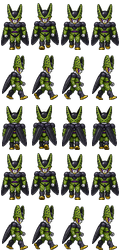
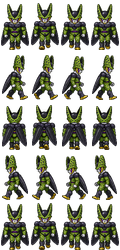
Boss facing fix, cleaner bind labels, universal phases, quieter aura, form defense
1. Sprite facing: generator now emits a proper 4-direction layout (down/right/
   up/left) with the left row mirrored from the right, so bosses that read a
   dedicated left row no longer face the wrong way / only turn one direction.
   All boss sheets regenerated.
2. Unlock dialogues use a clean ASCII key label (e.g. "Shift+R") instead of the
   raw KeybindList text that rendered as glyphs; the first form unlock now also
   lists the dash, guard/parry and charge binds.
3. Every non-guardian boss now runs at least one phase, so it hits a "stops
   holding back" surge near death; Dragon Ball guardians stay phase-less.
4. Aura hum volume config (default 0.5) applied to the loop cue.
5. Forms now grant passive damage reduction - a fraction of their attack bonus
   (default half), amplified by mastery, with diminishing returns and a cap.

All added options exposed in GMCM.

Changed region(s): [[0.0, 0.616, 1.0, 1.0]]

diff --git a/ModEntry.cs b/ModEntry.cs
@@ -175,6 +175,9 @@ namespace SaiyanTransformations
             gmcm.AddBoolOption(m, () => this.Config.ParryReflect, v => this.Config.ParryReflect = v, () => "Parry deflects ki blasts");
 
             gmcm.AddSectionTitle(m, () => "Mastery & passives");
+            gmcm.AddBoolOption(m, () => this.Config.EnableFormDefense, v => this.Config.EnableFormDefense = v, () => "Forms reduce incoming damage");
+            gmcm.AddNumberOption(m, () => this.Config.FormDefenseFraction, v => this.Config.FormDefenseFraction = v, () => "Defense = this x attack bonus", null, 0f, 1f, 0.05f);
+            gmcm.AddNumberOption(m, () => this.Config.FormDefenseMaxReduction, v => this.Config.FormDefenseMaxReduction = v, () => "Max form damage reduction", null, 0f, 0.95f, 0.05f);
             gmcm.AddBoolOption(m, () => this.Config.EnableMasteryBonuses, v => this.Config.EnableMasteryBonuses = v, () => "Mastery carries over to all forms");
             gmcm.AddNumberOption(m, () => this.Config.MasteryAttackBonusPerForm, v => this.Config.MasteryAttackBonusPerForm = v, () => "Attack bonus per mastered form", null, 0f, 0.5f, 0.05f);
             gmcm.AddNumberOption(m, () => this.Config.MasteryDefenseBonusPerForm, v => this.Config.MasteryDefenseBonusPerForm = v, () => "Defense bonus per mastered form", null, 0, 20, 1);
@@ -211,6 +214,7 @@ namespace SaiyanTransformations
             gmcm.AddBoolOption(m, () => this.Config.ShowKiBar, v => this.Config.ShowKiBar = v, () => "Show ki bar");
             gmcm.AddBoolOption(m, () => this.Config.ShowPowerLevel, v => this.Config.ShowPowerLevel = v, () => "Show power level");
             gmcm.AddBoolOption(m, () => this.Config.ScreenFlash, v => this.Config.ScreenFlash = v, () => "Screen flash");
+            gmcm.AddNumberOption(m, () => this.Config.AuraLoopVolume, v => this.Config.AuraLoopVolume = v, () => "Aura hum volume", null, 0f, 1f, 0.05f);
         }
 
         /// <summary>Apply a one-click difficulty preset by overwriting the boss scaling dials.
@@ -376,7 +380,14 @@ namespace SaiyanTransformations
         {
             ModEntry.StopLoop(ref this.auraCue);
             if (this.Config.AuraLoopSound)
+            {
                 this.auraCue = this.PlayLoop("aura_loop");
+                if (this.auraCue != null)
+                {
+                    try { this.auraCue.Volume = MathHelper.Clamp(this.Config.AuraLoopVolume, 0f, 1f); }
+                    catch (Exception) { }
+                }
+            }
         }
 
         /// <summary>A fully mastered form runs "calm" — no visible aura, no electric
@@ -550,6 +561,45 @@ namespace SaiyanTransformations
         internal string TechniqueName(string techniqueId)
         {
             return this.Techniques.NameOf(techniqueId);
+        }
+
+        /// <summary>A short, plain-text label for a keybind, e.g. "Shift+R", safe to drop into
+        /// a dialogue box. The raw KeybindList text did not render cleanly (it showed as
+        /// stray glyphs), so this builds a clean ASCII label from the first bound combo.</summary>
+        internal string KeyLabel(KeybindList keys)
+        {
+            if (keys != null)
+            {
+                foreach (Keybind kb in keys.Keybinds)
+                {
+                    if (!kb.IsBound)
+                        continue;
+                    var sb = new System.Text.StringBuilder();
+                    foreach (SButton b in kb.Buttons)
+                    {
+                        if (sb.Length > 0)
+                            sb.Append('+');
+                        sb.Append(ShortButton(b));
+                    }
+                    if (sb.Length > 0)
+                        return sb.ToString();
+                }
+            }
+            return "(unbound)";
+        }
+
+        private static string ShortButton(SButton b)
+        {
+            switch (b)
+            {
+                case SButton.LeftShift:
+                case SButton.RightShift: return "Shift";
+                case SButton.LeftControl:
+                case SButton.RightControl: return "Ctrl";
+                case SButton.LeftAlt:
+                case SButton.RightAlt: return "Alt";
+                default: return b.ToString();
+            }
         }
 
         internal void GrantFormUnlock(int formIndex)
@@ -951,6 +1001,20 @@ namespace SaiyanTransformations
                 }
             }
 
+            // a form's own toughness soaks a share of whatever damage is left: a defensive
+            // counterpart to its attack multiplier that also climbs with mastery
+            if (lost > 0 && form != null && this.Config.EnableFormDefense)
+            {
+                float reduction = this.FormDamageReduction(form);
+                int soak = (int)(lost * reduction);
+                if (soak > 0)
+                {
+                    player.health = Math.Min(player.maxHealth, health + soak);
+                    health = player.health;
+                    lost -= soak;
+                }
+            }
+
             if (lost > 0 && form != null && form.DodgeChance > 0f
                 && this.Ki.CanAfford(this.Config.UltraInstinctDodgeEnergyCost)
                 && Game1.random.NextDouble() < this.EffectiveDodgeChance(form))
@@ -967,6 +1031,22 @@ namespace SaiyanTransformations
             }
 
             this.lastHealth = health;
+        }
+
+        /// <summary>A form's passive damage reduction: a fraction of its attack bonus (per
+        /// FormDefenseFraction - "half the attack multiplier" by default), amplified by mastery,
+        /// then run through diminishing returns and capped so no form becomes invulnerable.</summary>
+        internal float FormDamageReduction(Transformation form)
+        {
+            if (form == null || !this.Config.EnableFormDefense)
+                return 0f;
+
+            float attackBonus = Math.Max(0f, form.AttackMultiplier - 1f);
+            float factor = attackBonus * Math.Max(0f, this.Config.FormDefenseFraction);
+            factor *= 1f + this.Progress.MasteryFraction(form);   // up to double at full mastery
+            float reduction = factor / (1f + factor);             // diminishing returns, always < 1
+            float cap = MathHelper.Clamp(this.Config.FormDefenseMaxReduction, 0f, 0.95f);
+            return MathHelper.Clamp(reduction, 0f, cap);
         }
 
         /// <summary>A ki-cost dash: a short blink in the direction you are moving (diagonals
@@ -1181,8 +1261,19 @@ namespace SaiyanTransformations
                 return;
 
             string name = Transformation.All[this.announcedUnlocks].DisplayName;
-            this.ShowNarration($"A new power awakens: {name}!  Press {this.Config.TransformKey} to "
-                               + "ascend toward it - at your highest form, press it again to power down.");
+            string msg = $"A new power awakens: {name}!  Press {this.KeyLabel(this.Config.TransformKey)} "
+                         + "to ascend toward it - at your highest form, press it again to power down.";
+
+            // the very first unlock doubles as a controls primer, so the dash and guard binds
+            // are shown at least once
+            if (this.announcedUnlocks == 0)
+            {
+                msg += $"  Controls: {this.KeyLabel(this.Config.DashKey)} to dash, "
+                       + $"hold {this.KeyLabel(this.Config.BlockKey)} to guard (tap it as a hit lands to parry), "
+                       + $"and hold {this.KeyLabel(this.Config.ChargeKey)} while still to charge ki.";
+            }
+
+            this.ShowNarration(msg);
             this.PlayCue("unlock", "yoba");
             if (this.Config.ScreenFlash)
                 Game1.flashAlpha = 1f;

diff --git a/Bosses.cs b/Bosses.cs
@@ -1225,22 +1225,33 @@ namespace SaiyanTransformations
             ModEntry.Notify("It refuses to fall.");
         }
 
+        /// <summary>Phases a boss actually runs. Any non-guardian boss that was not given an
+        /// explicit phase count still gets one, so it hits a "stops holding back" phase near
+        /// death; the Dragon Ball guardians are the deliberate exception.</summary>
+        private static int EffectivePhaseCount(BossDefinition def)
+        {
+            if (def.PhaseCount > 0)
+                return def.PhaseCount;
+            return def.Reward == BossReward.DragonBall ? 0 : 1;
+        }
+
         /// <summary>Major bosses power up as their health falls. Each phase hits harder and
         /// moves faster, and the last phase can hand the boss a brand-new move.</summary>
         private void CheckPhase(Monster monster, BossDefinition def)
         {
-            if (def.PhaseCount <= 0 || monster.MaxHealth <= 0)
+            int phaseCount = EffectivePhaseCount(def);
+            if (phaseCount <= 0 || monster.MaxHealth <= 0)
                 return;
 
             int done = 0;
             if (monster.modData.TryGetValue(PhaseKey, out string s))
                 int.TryParse(s, out done);
-            if (done >= def.PhaseCount)
+            if (done >= phaseCount)
                 return;
 
             // thresholds spaced evenly: 2 phases -> 66% and 33%
             float fraction = (float)monster.Health / monster.MaxHealth;
-            float threshold = 1f - ((done + 1f) / (def.PhaseCount + 1f));
+            float threshold = 1f - ((done + 1f) / (phaseCount + 1f));
             if (fraction > threshold)
                 return;
 
@@ -1251,13 +1262,13 @@ namespace SaiyanTransformations
             monster.resilience.Value += 2;
 
             // the final phase can grant a new ability the boss did not start with
-            if (done >= def.PhaseCount && def.PhaseAbility != BossAbility.None)
+            if (done >= phaseCount && def.PhaseAbility != BossAbility.None)
                 monster.modData[BossAbilityRunner.PhaseAbilityKey] = ((int)def.PhaseAbility).ToString();
 
             Owner.PlayCue("boss_roar", "shadowpeep");
             if (Owner.Config.ScreenFlash)
                 Game1.flashAlpha = 0.6f;
-            ModEntry.Notify(done >= def.PhaseCount
+            ModEntry.Notify(done >= phaseCount
                 ? $"{def.DisplayName} stops holding back!"
                 : $"{def.DisplayName}'s power surges!");
         }
@@ -1466,8 +1477,8 @@ namespace SaiyanTransformations
             {
                 Portrait = false,
                 Text = $"Technique learned: {Owner.TechniqueName(techniqueId)}!  "
-                       + $"Press {Owner.Config.KamehamehaKey} to use it, "
-                       + $"{Owner.Config.SwitchTechniqueKey} to cycle between techniques."
+                       + $"Press {Owner.KeyLabel(Owner.Config.KamehamehaKey)} to use it, "
+                       + $"{Owner.KeyLabel(Owner.Config.SwitchTechniqueKey)} to cycle between techniques."
             });
         }
 

diff --git a/tools/process_bosses.py b/tools/process_bosses.py
@@ -43,7 +43,10 @@ MAP = {
  # invader excluded: dark-on-dark source does not key cleanly; keeps its placeholder
 }
 ROWS = {"GreenSlime":7,"SquidKid":4,"ShadowBrute":8,"Mummy":5}
-ROW_FACING = [2,1,0]  # cycles: down(front), right(right), up(back)
+# Standard 4-direction layout: down, right, up, left. The left row is the right-side art
+# mirrored, so a monster that reads a dedicated left row shows a correctly-facing profile
+# instead of missing/duplicated frames (bosses that "could only turn one way").
+ROW_FACING = [2,1,0,3]  # down(front), right, up(back), left(=mirrored right)
 
 def key_white(im):
     a = np.array(im.convert("RGBA"))
@@ -103,11 +106,13 @@ def crop(a, c):
         sub = sub[ys.min():ys.max()+1, xs.min():xs.max()+1]
     return Image.fromarray(sub, "RGBA")
 
-def fit_cell(spr, fw, fh, scale):
+def fit_cell(spr, fw, fh, scale, flip=False):
     # scale is uniform across every frame of a boss, so the character keeps one height
     cell = Image.new("RGBA", (fw, fh), (0,0,0,0))
     w,h = max(1,int(round(spr.width*scale))), max(1,int(round(spr.height*scale)))
     s = spr.resize((w,h), Image.LANCZOS)
+    if flip:
+        s = s.transpose(Image.FLIP_LEFT_RIGHT)
     x = (fw - w)//2
     y = fh - h            # bottom-align (feet at cell bottom)
     cell.alpha_composite(s, (x,y))
@@ -126,11 +131,13 @@ def build(name, kind, fw, fh, rows):
     sheet = Image.new("RGBA", (4*fw, nrows*fh), (0,0,0,0))
     for row in range(nrows):
         facing = ROW_FACING[row % len(ROW_FACING)]
-        frames = facings.get(facing) or facings.get(2) or []
+        flip = facing == 3            # left is the right-side art mirrored
+        src_facing = 1 if facing == 3 else facing
+        frames = facings.get(src_facing) or facings.get(2) or []
         for col in range(4):
             if not frames: continue
             spr = frames[col % len(frames)]
-            cell = fit_cell(crop_cache[spr], fw, fh, scale)
+            cell = fit_cell(crop_cache[spr], fw, fh, scale, flip)
             sheet.alpha_composite(cell, (col*fw, row*fh))
     sheet.save(os.path.join(TMP, name+".png"))
     return sheet

diff --git a/ModConfig.cs b/ModConfig.cs
@@ -295,6 +295,20 @@ namespace SaiyanTransformations
         /// <summary>Scales every form's drain rate.</summary>
         public float StaminaDrainScale { get; set; } = 1.0f;
 
+        /// <summary>Each form soaks a share of incoming damage - a defensive counterpart to
+        /// its attack multiplier that also grows with mastery. Set to a fraction of the attack
+        /// bonus (see FormDefenseFraction) and fed through diminishing returns, so even the
+        /// strongest forms cannot become invulnerable.</summary>
+        public bool EnableFormDefense { get; set; } = true;
+
+        /// <summary>Portion of a form's attack bonus that becomes defense. 0.5 = "half the
+        /// attack multiplier": Super Saiyan (attack x1.5, a +0.5 bonus) starts around 20%
+        /// damage reduction, climbing with mastery.</summary>
+        public float FormDefenseFraction { get; set; } = 0.5f;
+
+        /// <summary>Hard cap on a form's damage reduction, so it can never trivialise a fight.</summary>
+        public float FormDefenseMaxReduction { get; set; } = 0.6f;
+
         /// <summary>Chance for Ultra Instinct to evade an incoming hit entirely.</summary>
         public float UltraInstinctDodgeChance { get; set; } = 0.5f;
 
@@ -477,5 +491,9 @@ namespace SaiyanTransformations
 
         /// <summary>Continuous aura roar while transformed.</summary>
         public bool AuraLoopSound { get; set; } = true;
+
+        /// <summary>Volume of the continuous aura roar, 0-1. Lowered by default so the
+        /// constant hum is easier to live with over a long session.</summary>
+        public float AuraLoopVolume { get; set; } = 0.5f;
     }
 }
